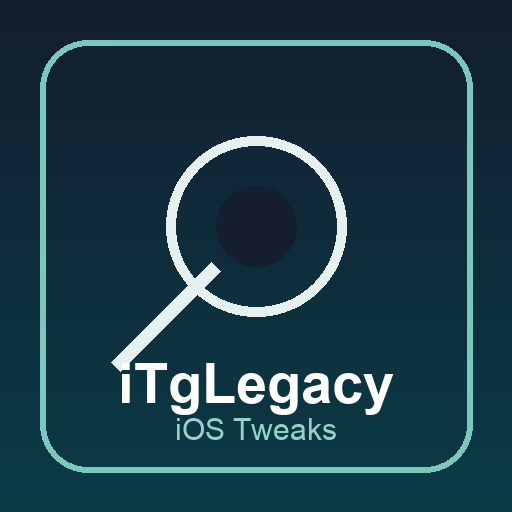
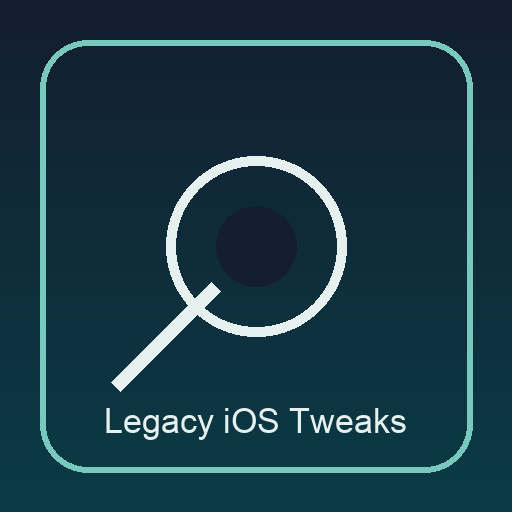
Drop Havrysh branding

Changed region(s): [[0.1875, 0.25, 0.8125, 0.875]]

diff --git a/README.md b/README.md
@@ -1,4 +1,4 @@
-# Havrysh iOS Tweaks — Cydia repo
+# Legacy iOS Tweaks — Cydia repo
 
 A single Cydia source aggregating MobileSubstrate tweaks for jailbroken
 legacy iOS devices (iOS 6+). This repo is a pure distribution point — no
